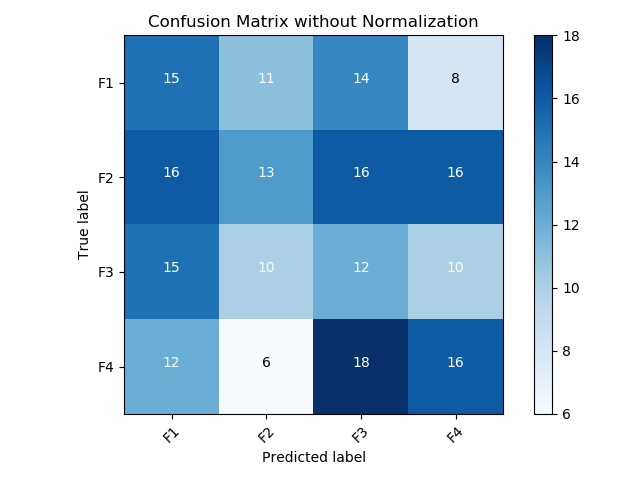
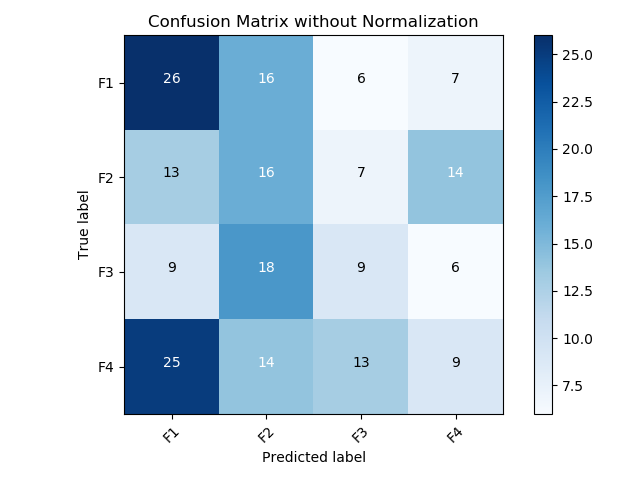
Comments added

diff --git a/dataset.py b/dataset.py
@@ -1,5 +1,4 @@
 import numpy as np
-from matplotlib import pyplot
 from pandas import DataFrame
 import seaborn as sns
 import matplotlib.pyplot as plt
@@ -8,6 +7,7 @@ from sklearn.svm import LinearSVC
 from sklearn.metrics import confusion_matrix, auc, roc_curve
 import itertools
 
+# CSV dosyasında yer alan düzensiz satır ve sütunların tek tek parçalı bir şekilde aktarılması
 def parseRowsAndColumns():
     rawData = np.loadtxt('./input/HCV-Egy-Data.csv', delimiter=",")
     splittedData = []
@@ -18,6 +18,7 @@ def parseRowsAndColumns():
         splittedData.append(column)
     return splittedData
 
+# Parçalanmış satır ve sütun verilerinin pandas sorgularına uygun hale getirilmesi
 def setDataFrame():
     dataColumns = parseRowsAndColumns()
     patientDict = {"data":[]}
@@ -51,24 +52,15 @@ def setDataFrame():
         patient['RNA_12'] = int(dataColumns[i][24])
         patient['RNA_EOT'] = int(dataColumns[i][25])
         patient['RNA_EF'] = int(dataColumns[i][26])
-        patient['Baseline_Histological_Grading'] = int(dataColumns[i][27])
-        patient['Baseline_Histological_Staging'] = int(dataColumns[i][28])
+        patient['BHG'] = int(dataColumns[i][27])
+        patient['BHS'] = int(dataColumns[i][28])
         patientDict['data'].append(patient)
 
     patientDataFrame = DataFrame.from_dict(patientDict['data'])
 
     return patientDataFrame
 
-def plot_corr(df):
-    cmap = sns.diverging_palette(220, 10, as_cmap=True)
-    sns.heatmap(df.corr(), cmap=cmap, vmax=1.0, vmin=-1.0, center=0,
-                square=True, linewidths=.5, cbar_kws={"shrink": .5})
-    plt.title('Correlation Matrix')
-    plt.show()
-
-    print("Correlation Matrix is completed")
-
-
+# Tamsayı şeklinde tutulan hastalık seviyelerinin isimlendirilmesi
 def setStageNames(stages):
     stageNames = []
 
@@ -87,15 +79,37 @@ def setStageNames(stages):
         stageNames.append(stageName)
     return stageNames
 
-def plot_cnf_matrix(target, predicted, classes, normalize=False):
+# Veri setinde tanımlanmış hastalık seviyelerinin çıkarılması
+def findRepeatedElements(x):
+    _size = len(x)
+    repeated = []
+    for i in range(_size):
+        k = i + 1
+        for j in range(k, _size):
+            if x[i] == x[j] and x[i] not in repeated:
+                repeated.append(x[i])
+    return repeated
+
+# Korelasyon matrisinin çizdirilmesi
+def plot_corr(df):
+    cmap = sns.diverging_palette(220, 10, as_cmap=True)
+    sns.heatmap(df.corr(), cmap=cmap, vmax=1.0, vmin=-1.0, center=0,
+                square=True, linewidths=.5, cbar_kws={"shrink": .5})
+    plt.title('Correlation Matrix')
+    plt.show()
+
+    print("Correlation Matrix is completed")
+
+# Confusion matrisinin çizdirilmesi
+def plot_cnf_matrix(target, predicted, stages, normalize=False):
     title = ""
     titleOptions = ["Confusion Matrix with Normalization", "Confusion Matrix without Normalization"]
     plt.figure()
-    cnfMatrix = confusion_matrix(y_true=target, y_pred=predicted, labels=classes)
+    cnfMatrix = confusion_matrix(y_true=target, y_pred=predicted, labels=stages)
     np.set_printoptions(precision=2)
     cmap = plt.cm.Blues
 
-
+    #Boolean değerine göre değerleri normalize eder
     if normalize:
         cnfMatrix = cnfMatrix.astype('float') / cnfMatrix.sum(axis=1)[:, np.newaxis]
         title = titleOptions[0]
@@ -108,9 +122,9 @@ def plot_cnf_matrix(target, predicted, classes, normalize=False):
     plt.imshow(cnfMatrix, interpolation='nearest', cmap=cmap)
     plt.title(title)
     plt.colorbar()
-    tick_marks = np.arange(len(classes))
-    plt.xticks(tick_marks, classes, rotation=45)
-    plt.yticks(tick_marks, classes)
+    tick_marks = np.arange(len(stages))
+    plt.xticks(tick_marks, stages, rotation=45)
+    plt.yticks(tick_marks, stages)
 
     fmt = '.2f' if normalize else 'd'
     thresh = cnfMatrix.max() / 2.
@@ -126,33 +140,27 @@ def plot_cnf_matrix(target, predicted, classes, normalize=False):
 
     print("Confusion Matrix is completed")
 
-
-def findRepeatedElements(x):
-    _size = len(x)
-    repeated = []
-    for i in range(_size):
-        k = i + 1
-        for j in range(k, _size):
-            if x[i] == x[j] and x[i] not in repeated:
-                repeated.append(x[i])
-    return repeated
-
+# ROC eğrisinin OneVsRestClassifier kullanılarak çizdirilmesi
 def plot_roc(X_train, X_test, Y_train, Y_test, stage_names):
-    n_classes = len(stage_names)
+    n_stages = len(stage_names)
 
+    # Kullanılan classifier train edildikten sonra test girdileri kullanılarak bir y skor matrisi elde edilir.
+    # Bu y skor matrisi test verilerinin sırayla hastalık seviyesine ait olduğuna ait olasılık değerleri içermektedir.
     clf = OneVsRestClassifier(LinearSVC(random_state=0))
     y_score = clf.fit(X_train, Y_train).decision_function(X_test)
 
     fpr = dict()
     tpr = dict()
     roc_auc = dict()
-    for i in range(n_classes):
+    # fit işlemi sonucu elde edilen olasılık değerleri kullanılarak,
+    # her bir seviye değeri için ROC eğrisi ve eğrinin altında kalan alanın hesaplanması
+    for i in range(n_stages):
         fpr[i], tpr[i], _ = roc_curve(Y_test[:, i], y_score[:, i])
         roc_auc[i] = auc(fpr[i], tpr[i])
 
     plt.figure()
 
-    for i in range(n_classes):
+    for i in range(n_stages):
         plt.plot(fpr[i], tpr[i], label='ROC curve of ' + stage_names[i] + ' (AUC = %0.2f)' % roc_auc[i])
 
     plt.plot([0, 1], [0, 1], 'k--')
@@ -166,20 +174,22 @@ def plot_roc(X_train, X_test, Y_train, Y_test, stage_names):
 
     print("ROC Curve is completed")
 
-
+# ROC eğrisinin Keras sinir ağı modeli kullanılarak çizdirilmesi
 def plot_roc2(Y_test, predictions, stage_names):
-    n_classes = len(stage_names)
+    n_stages = len(stage_names)
 
     fpr = dict()
     tpr = dict()
     roc_auc = dict()
-    for i in range(n_classes):
+    # Predict işlemi sonucu elde edilen tahmin değerleri kullanılarak,
+    # her bir seviye değeri için ROC eğrisi ve eğrinin altında kalan alanın hesaplanması
+    for i in range(n_stages):
         fpr[i], tpr[i], _ = roc_curve(Y_test[:, i], predictions[:, i])
         roc_auc[i] = auc(fpr[i], tpr[i])
 
     plt.figure()
 
-    for i in range(n_classes):
+    for i in range(n_stages):
         plt.plot(fpr[i], tpr[i], label='ROC curve of ' + stage_names[i] + ' (AUC = %0.2f)' % roc_auc[i])
 
     plt.plot([0, 1], [0, 1], 'k--')
@@ -193,10 +203,12 @@ def plot_roc2(Y_test, predictions, stage_names):
 
     print("ROC Curve is completed")
 
-
+# Eğitim ve doğrulama hatalarının grafiğinin çizdirilmesi
 def plot_train_and_val_loss(history, epoch):
     plt.figure()
     epochs = range(1, epoch + 1)
+
+    # Modelin train işleminde her bir epoch içinde hesapladığı tüm eğitim ve doğrulama hatalarının eldesi
     loss = history.history['loss']
     valLoss = history.history['val_loss']
 

diff --git a/main10.py b/main10.py
@@ -1,7 +1,6 @@
 from keras.models import Sequential
 from keras.layers import Dense
 from keras.optimizers import *
-from keras.metrics import *
 from keras.utils.np_utils import to_categorical
 from sklearn import model_selection
 from sklearn.preprocessing import LabelEncoder
@@ -13,27 +12,24 @@ from dataset import *
 # Veri setinin hazırlanması
 epochValue = 10000
 dataset = setDataFrame()
-data = shuffle(dataset)
+plot_corr(dataset)
+dataset = shuffle(dataset)
 
 # Veri setinin giriş ve çıkışlara ayrılması
-X = dataset.drop(['Baseline_Histological_Staging'], axis=1)
+X = dataset.drop(['BHS'], axis=1)
 X = np.array(X)
-Y = dataset['Baseline_Histological_Staging']
+Y = dataset['BHS']
 
 # Tekrar eden çıkışların tespit edilmesi ve çıkış sıralarına göre sıralanması
 print("\nRepeating outputs are analyzing...\n")
 stageNumbers = findRepeatedElements(Y)
 stageNames = setStageNames(sorted(stageNumbers))
 
-# TODO: Yorum satırı eklenecek
+# Hastalık seviyelerinin binary formata çevrilmesi
 encoder = LabelEncoder()
 encoder.fit(Y)
 Y = encoder.transform(Y)
 Y = to_categorical(Y)
-
-# encoder.fit(Y2)
-# Y2 = encoder.transform(Y2)
-# Y2 = to_categorical(Y2)
 
 # Veri setinin kümelere ayrılması.
 trainX, testX, trainY, testY = model_selection.train_test_split(X, Y, test_size=0.15, random_state=0)
@@ -56,17 +52,11 @@ scores = model.evaluate(trainX, trainY)
 # Accuracy sonucunun ekrana basılması
 print("\n%s: %.2f%%" % (model.metrics_names[1], scores[1] * 100))
 
-# TODO: Tahmin sonuçlarının decimal hale çevrilmesi
+# Tahmin sonuçlarının decimal hale çevrilmesi
 binaryPredictions = model.predict(testX)
 predictions = np.argmax(binaryPredictions, axis=1) + 1
 
 targets = np.argmax(testY, axis=1) + 1
-
-# predictionsIndexes = np.argmax(binaryPredictions, axis=1)
-# decimalPredictions = predictionsIndexes + 1
-#
-# targetIndexes = np.argmax(testY, axis=1) + 1
-# decimalTargets = targetIndexes + 1
 
 dogru = 0
 yanlis = 0
@@ -86,13 +76,16 @@ print("\n", "-" * 150, "\nISTATISTIK:\nToplam ", toplam_veri, " Veri içersinde;
       "\nYanlış Bilme Sayısı: ", yanlis,
       "\nBaşarı Yüzdesi: ", str(int(100 * dogru / toplam_veri)) + "%", sep="")
 
-plot_corr(dataset)
+
 # Confusion Matrix'in hazırlanması ve çizdirilmesi
 confusionMatrix = plot_cnf_matrix(predicted=setStageNames(predictions), target=setStageNames(targets),
-                                  classes=stageNames
-                                  , normalize=False)
+                                  stages=stageNames
+                                  , normalize=True)
 
 # ROC Curve grafiğinin hazırlanması ve çizdirilmesi
+
 # plot_roc(X_train=trainX, X_test=testX, Y_train= trainY, Y_test=testY, stage_names=stageNames)
 plot_roc2(Y_test=testY, predictions=binaryPredictions, stage_names=stageNames)
+
+#Eğitim ve doğrulama hatalarının grafiğinin hazırlanması ve çizdirilmesi
 plot_train_and_val_loss(history=history, epoch=epochValue)

diff --git a/main11.py b/main11.py
@@ -66,5 +66,5 @@ print("\n", "-" * 150, "\nISTATISTIK:\nToplam ", toplam_veri, " Veri içersinde;
       "\nBaşarı Yüzdesi: ", str(int(100 * dogru / toplam_veri)) + "%", sep="")
 
 plot_cnf_matrix(predicted=setStageNames(predictions), target=setStageNames(targets),
-                classes=stageNames
+                stages=stageNames
                 , normalize=False)
